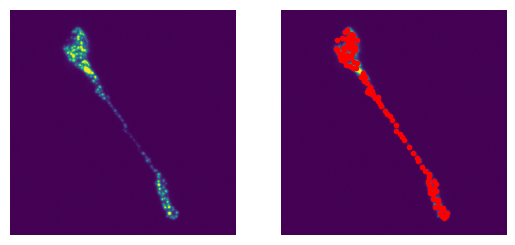
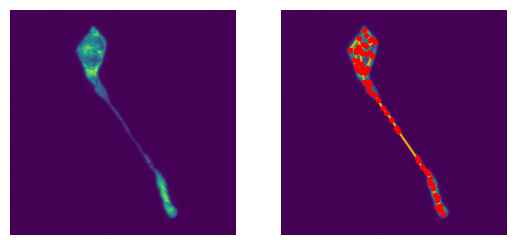
can now draw connecting lines between points in a crude MST based on Prims

diff --git a/find_peaks.py b/find_peaks.py
@@ -15,25 +15,53 @@
 # 2. Calculate a mean for all points in tree, and "centerpoint mean" for each edge
 # 2. If a peak is closer to the mean than it is to the centerpoint mean, then the peak is barely a peak. 
 
-from operator import itemgetter
 from PIL import Image
 import numpy as np
 from numpy.lib import imag
 from scipy import ndimage
 import matplotlib.pyplot as plt
+from matplotlib import collections as mc
 from findpeaks import findpeaks
 from tqdm import tqdm
+
 import networkx as nx
 
 class Coordinate:
-    def __init__(self, x, y):
+    """ Class for storing coordinate data. Easy to get the distance"""
+    def __init__(self, x, y, value):
         self.x = x
         self.y = y
+        self.value = value
+    def __repr__(self):
+        return f"({self.x},{self.y})"
 
     def __sub__(self, other):
         return (self.x - other.x)**2 + (self.y - other.y)**2
         # No need to square root to compare distances.
 
+    def min(self, other):
+        # "Minimum point" for making it easy to calculate edges
+        if self.x != other.x:
+            if self.x < other.x:
+                return self
+            else:
+                return other
+        else:
+            if self.y < other.y:
+                return self
+            elif self.y > other.y:
+                return other
+            else:
+                return None
+
+class Edge:
+    def __init__(self, a, b):
+        self.a = a
+        self.b = b
+        self.value = a-b
+    
+    def __repr__(self):
+        return f"[{self.a},{self.b}:{self.value}]"
 
 def label_peaks(data):
     """ 
@@ -44,8 +72,6 @@ def label_peaks(data):
     Input: raw image data (single frame)
     Output: a list of slices that contain the topological peaks. 
     """
-
-    
 
     # Use findpeaks to label the peaks via topological prominence
     fp = findpeaks(method='topology', window=3)
@@ -60,19 +86,56 @@ def label_peaks(data):
     sliced = {i:list(zip(*np.where(labeled==i))) for i in np.unique(labeled) if i}
     return sliced
     
-def filter_peaks(slices):
+
+def filter_peaks(slices, data):
     """ Reads in the peaks, and determines whether a peak is significant enough (non-phase separated maxima still register as peaks) """
-    xs, ys = [], []
+    
+    #xs, ys = [], []
+    coord_list = []
     
     for i,coords in enumerate(slices.values()):
         for y,x in coords:
             # Arbitrary filtration of peaks that are not above background
-            if gauss[y][x] > 200:
+            if data[y][x] > 200:
 
-                xs.append(x)
-                ys.append(y)
-    bresenham_line(xs[0],ys[0],xs[1],ys[1])
-    return xs,ys
+                #xs.append(x)
+                #ys.append(y)
+                coord_list.append(Coordinate(x,y,data[y][x]))
+                
+    
+    
+    print(coord_list)
+    edges = prim_mst(coord_list.copy())
+
+
+    #subXs, subYs = bresenham_line(xs[1],ys[1],xs[2],ys[2])
+    return coord_list, edges
+
+def prim_mst(coords):
+    mst_verts = []
+    edges = []
+    # put first vertex into the mst set
+    mst_verts.append(coords.pop(0))
+    # Get the nearest vertex to the first vertex
+    while coords:
+        curr = mst_verts[-1]
+        #print(f"MST SET: {mst_verts}")
+        next_vert = nearest(coords,curr)
+        edges.append(Edge(curr,next_vert))
+        mst_verts.append(coords.pop(coords.index(next_vert)))
+    return edges
+
+
+def nearest(coords, coord):
+    """Returns the vertex that is nearest to the starting vertex"""
+    minimum = None
+    min_dist = 1000000000
+    for vert in coords:
+        dist = coord - vert
+        if dist < min_dist:
+            min_dist = dist
+            minimum = vert
+    return minimum 
 
 def bresenham_line(x0, y0, x1, y1):
     # https://stackoverflow.com/questions/50995499/generating-pixel-values-of-line-connecting-2-points
@@ -110,12 +173,14 @@ def bresenham_line(x0, y0, x1, y1):
             error = error - deltax
     if switched:
         line.reverse()
-    print(f"From ({y0},{x0}) to ({y1},{x1}) is {line}")
+    print(f"From ({x0},{y0}) to ({x1},{y1}) is {line}")
+    print(f"Centerpoint is {line[int(len(line) / 2)]}")
     return line
+
 
 #img = Image.open('data/test_data-14bit.tif')
 img = Image.open('data/FullScale_BGsub.tif')
-nframes = range(img.n_frames)[12:13]
+nframes = range(img.n_frames)[0:1]
 cycle = 0
 for i,frame in tqdm(enumerate(nframes)):
     img.seek(frame)
@@ -123,8 +188,17 @@ for i,frame in tqdm(enumerate(nframes)):
     # Gauss filter to smooth out the clipped peaks
     gauss = ndimage.filters.gaussian_filter(data,sigma=1)
     slices = label_peaks(gauss)
-    xs,ys = filter_peaks(slices)
-    
+    peaks, edges = filter_peaks(slices,gauss)
+    print("PEAKS!",peaks)
+    xs = []
+    ys = []
+
+    for peak in peaks:
+        xs.append(peak.x)
+        ys.append(peak.y)
+    print(xs)
+
+
     fig, axes = plt.subplots(1, 2, sharex=True, sharey=True)
     ax = axes.ravel()
     ax[cycle].imshow(data)
@@ -133,6 +207,13 @@ for i,frame in tqdm(enumerate(nframes)):
     ax[cycle].imshow(data)
     ax[cycle].axis('off')
     ax[cycle].plot(xs,ys, 'r.')
+    lines = []
+    for edge in edges:
+        print(f"({edge.a.x}, {edge.a.y}); ({edge.b.x},{edge.b.y})")
+        lines.append([(edge.a.x,edge.a.y),(edge.b.x,edge.b.y)])
+    lc = mc.LineCollection(lines, colors="orange")
+    ax[cycle].add_collection(lc)
+        #ax[cycle].axline((edge.a.x,edge.a.y),(edge.b.x,edge.b.y))
     #for j in range(len(xs)):
     #    plt.annotate(j, (xs[j], ys[j]))
     cycle+=1
